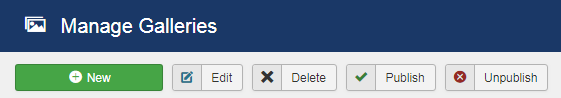
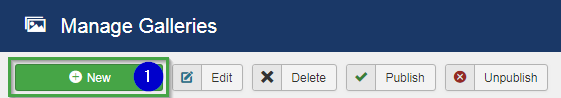
Added GetStarted: upload images decription

Changed region(s): [[0.0, 0.5816, 0.3333, 1.0]]

diff --git a/Documentation/GetStarted/04.UploadImages.md b/Documentation/GetStarted/04.UploadImages.md
@@ -1,6 +1,6 @@
 ### First steps (2) Upload images
 
-a) Prepare a zip file with 4 small images (each image < 1MB)
+a) Prepare 4 small images (example each image < 1MB)
 
 #### Select upload form
 
@@ -8,23 +8,14 @@ Select Upload in Control panel or in sidebar
 
 Sidebar:
 
-![](images/documentation/SelectUploadImages.png)
+ ![Control base buttons. galleries marked](https://github.com/RSGallery2/RSGallery2_Project/blob/master/Documentation/Images/galleries.new.sideBar.png?raw=true)
 
-#### Upload Zip file
+#### Upload files
 
-1.  Select tab "Upload from Zip (PC)"
-2.  Press upload button to select the prepared *.zip file on your device
-3.  Specify destination gallery
-4.  Click on upload button
+ ![Control base buttons. galleries marked](https://github.com/RSGallery2/RSGallery2_Project/blob/master/Documentation/Images/C:\Entwickl\2018\_GitHub\RSGallery2_Project\Documentation\Images\Upload.DragDrop.getStartedpng.png?raw=true)
 
-#### Upload form:
-
-![](images/documentation/UploadZipFile.png)
-
- The images appearside by side and may be commented(1)
-
-Press the "Upload" button to accept the images into the gallery
-
-![](images/documentation/UploadImagesView.png)
-
----
+1. Select tab "Upload by  drag and drop"
+2. Select your created gallery
+3. Drag and drop the prepared Images
+After some time they will appear in the drag area. Then they are successfully uploaded
+4.  If you want to set a title and write a description use button "Add image properties"
